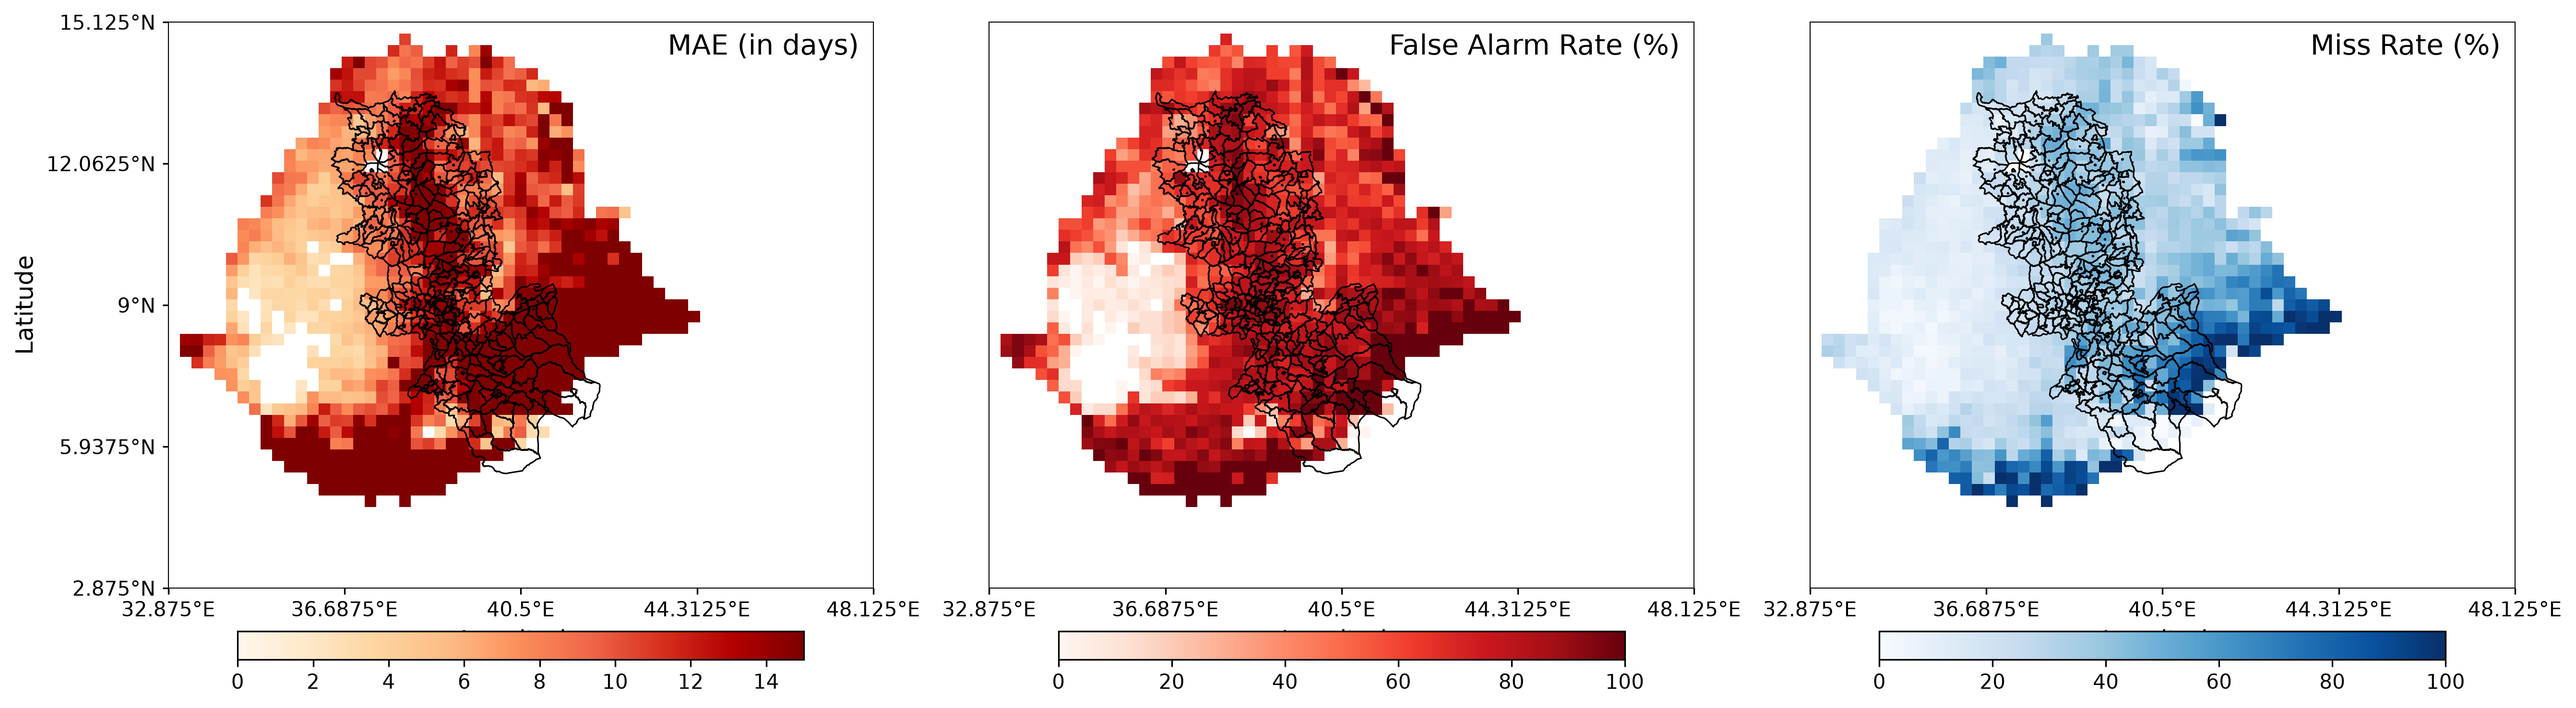
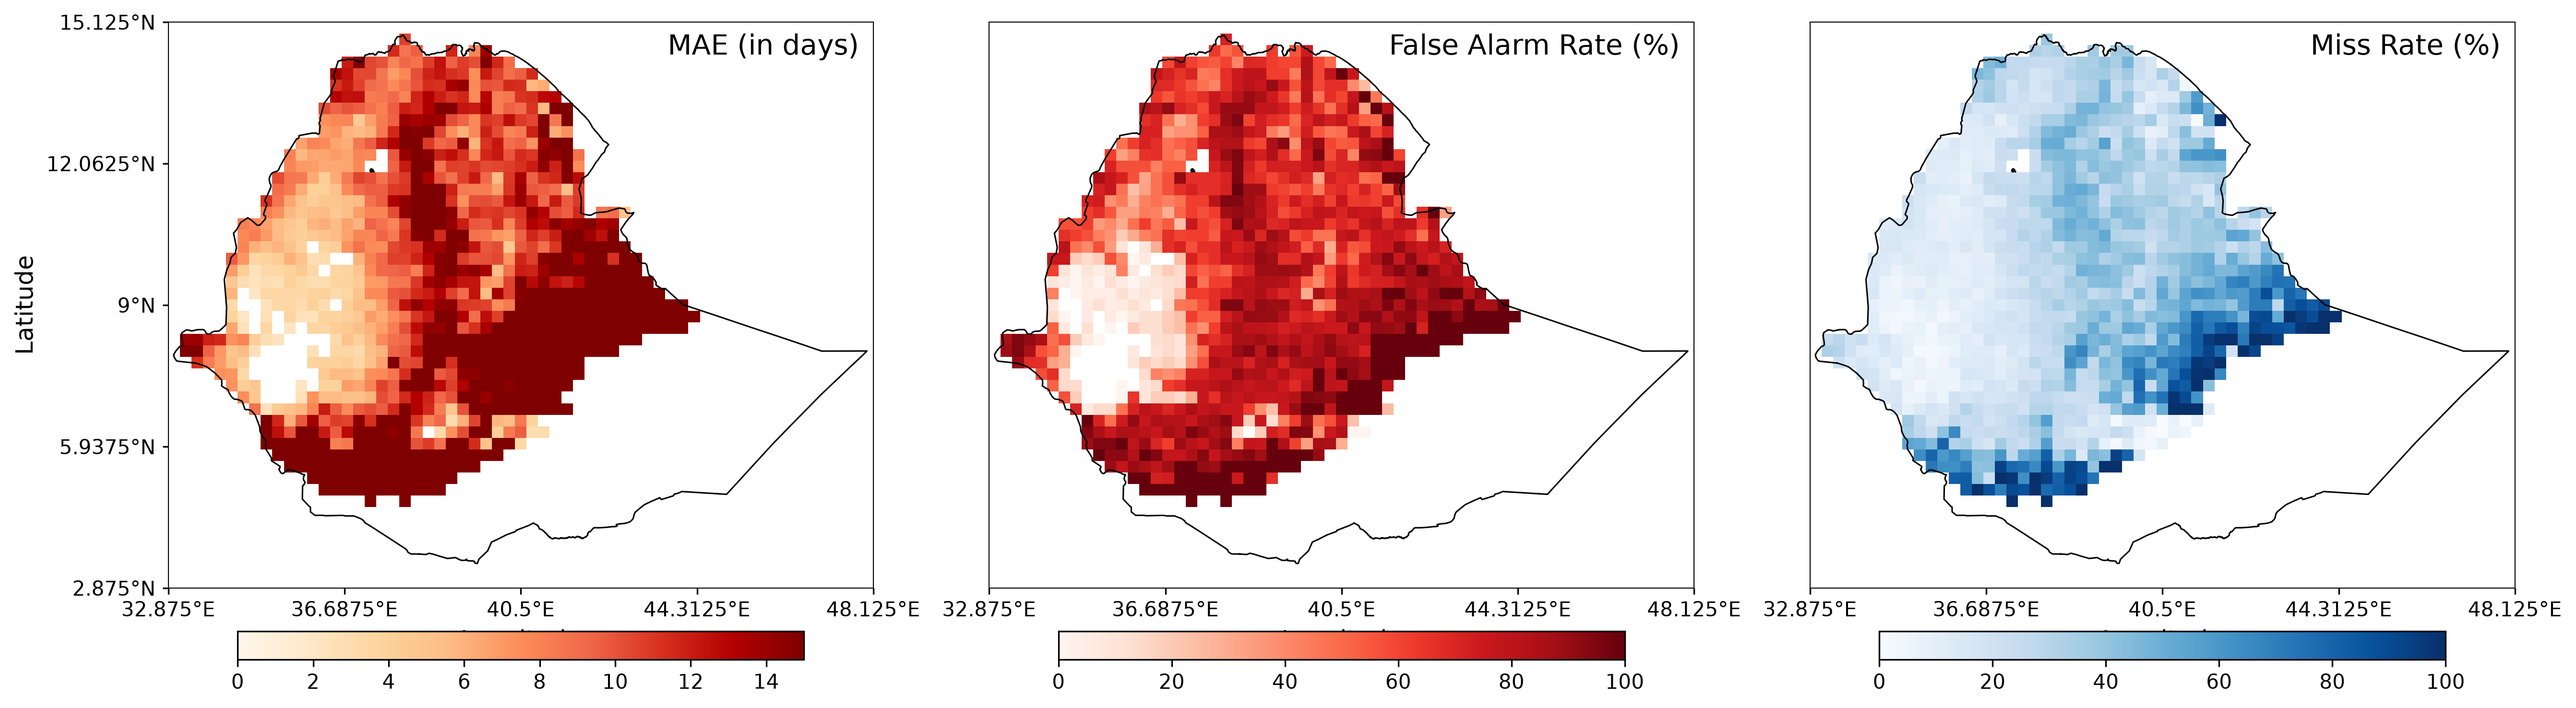
fix the shapefile url

diff --git a/ai_weather/config.py b/ai_weather/config.py
@@ -414,6 +414,23 @@ def _pick(label: str, local_candidates: List[tuple], remote_uri: str) -> str:
     return str(first)
 
 
+def _pick_shapefile_dir(local_dir: Path, remote_uri: str) -> str:
+    """Choose a local administrative boundary directory or its configured GCS location."""
+    local_dir = _match_case(Path(local_dir))
+    if DATA_MODE != "bucket" and local_dir.is_dir() and any(
+        path.is_file() and path.suffix.lower() in {".shp", ".geojson", ".json"}
+        for path in local_dir.rglob("*")
+    ):
+        DATA_SOURCES["administrative boundary"] = "local"
+        return str(local_dir)
+    if DATA_MODE != "local" and (BUCKET_OK or bool(os.getenv("ROMP_SHAPEFILE_URI"))):
+        DATA_SOURCES["administrative boundary"] = "bucket"
+        return remote_uri
+    DATA_SOURCES["administrative boundary"] = "missing"
+    _MISSING_ITEMS.append(f"administrative boundary: {local_dir}")
+    return str(local_dir)
+
+
 LOCAL_MODEL_DIRS = {
     "aifs_single": EXTERNAL_DATA_DIR / "aifs_single",
     "fuxi": EXTERNAL_DATA_DIR / "fuxi",
@@ -453,7 +470,12 @@ JJAS_MASK_FILE = _pick(
 JJAS_DIR = JJAS_MASK_FILE
 MONSOON_DIR = PROCESSED_DATA_DIR / "Monsoon" / "2026"
 
-
+SHAPEFILE_MASK_FILE = _pick_shapefile_dir(
+    EXTERNAL_DATA_DIR / "shapefile",
+    os.getenv("ROMP_SHAPEFILE_URI")
+    or f"{BUCKET_ROOT}/DATA/{region}/shapefile",
+)
+shapefile = SHAPEFILE_MASK_FILE
 def _find_apps_dir(proj_root: Path) -> Path:
     marker = Path("benchmarking") / "ROMP" / "momp" / "driver.py"
     for base in (proj_root, CURRENT_FILE.parent, PKG_DIR):
@@ -598,7 +620,7 @@ ref_model_file_pattern = _obs["pattern"]
 ref_model_var = _obs["var"]
 ref_model_unit_cvt = None
 nc_mask = resolve_path(JJAS_MASK_FILE)
-shpfile_dir = str(EXTERNAL_DATA_DIR / "shapefile")
+shpfile_dir = SHAPEFILE_MASK_FILE
 polygon = False
 
 wet_init = 1

diff --git a/apps/benchmarking/ROMP/momp/io/input.py b/apps/benchmarking/ROMP/momp/io/input.py
@@ -61,13 +61,15 @@ def _normalize_admin_name(value):
     return re.sub(r"[^a-z0-9]", "", str(value).strip().lower())
 
 
-def _download_admin_boundaries(region):
+def _download_admin_boundaries(region, configured_dir=None):
     """Stage the configured region's administrative boundaries from the demo bucket."""
-    bucket = os.getenv("DEMO_BUCKET", "").strip().removeprefix("gs://").strip("/")
-    if not bucket:
-        return None
-
-    remote_dir = f"gs://{bucket}/demo4/DATA/{region}/shapefile"
+    if storage.is_uri(configured_dir):
+        remote_dir = str(configured_dir).rstrip("/")
+    else:
+        bucket = os.getenv("DEMO_BUCKET", "").strip().removeprefix("gs://").strip("/")
+        if not bucket:
+            return None
+        remote_dir = f"gs://{bucket}/demo4/DATA/{region}/shapefile"
     remote_files = storage.glob(f"{remote_dir}/**")
     boundary_files = [
         path for path in remote_files
@@ -105,7 +107,7 @@ def _build_admin_grid_index(admin_names, latitudes, longitudes, shapefile_dir, r
         boundary_files = []
 
     if not boundary_files:
-        downloaded_dir = _download_admin_boundaries(region)
+        downloaded_dir = _download_admin_boundaries(region, shapefile_dir)
         if downloaded_dir is not None:
             boundary_files = [
                 path
